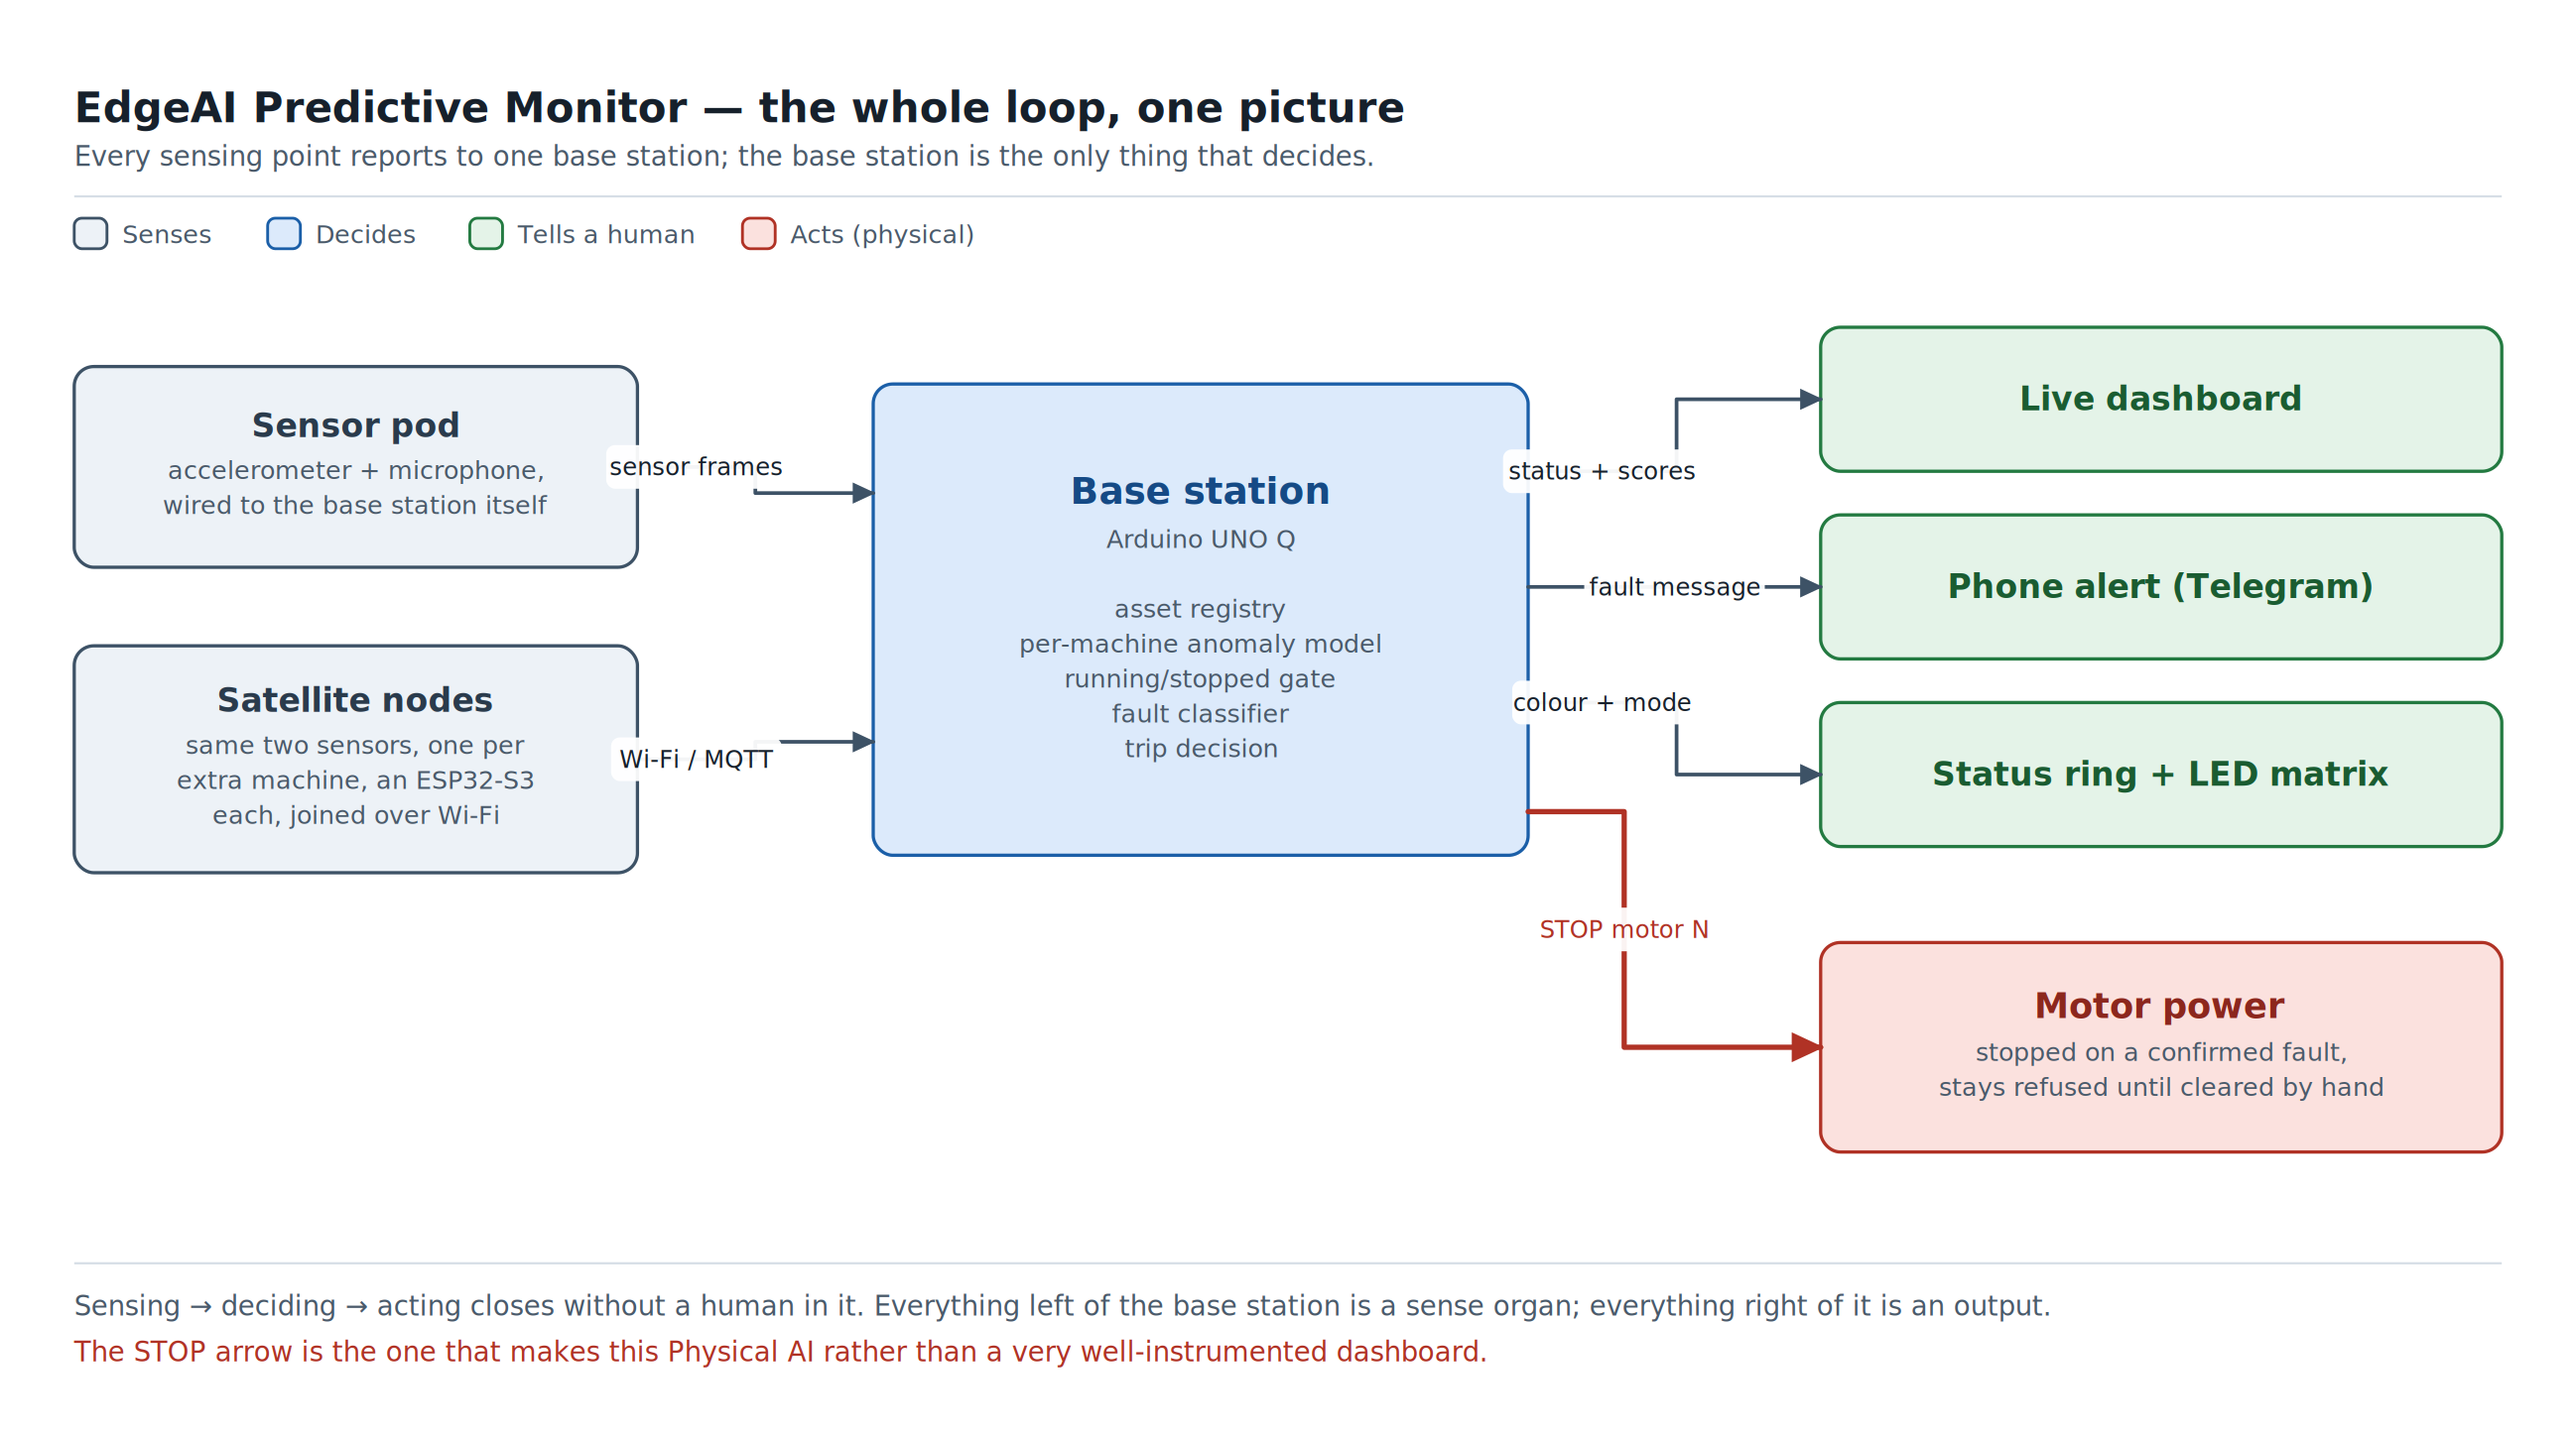
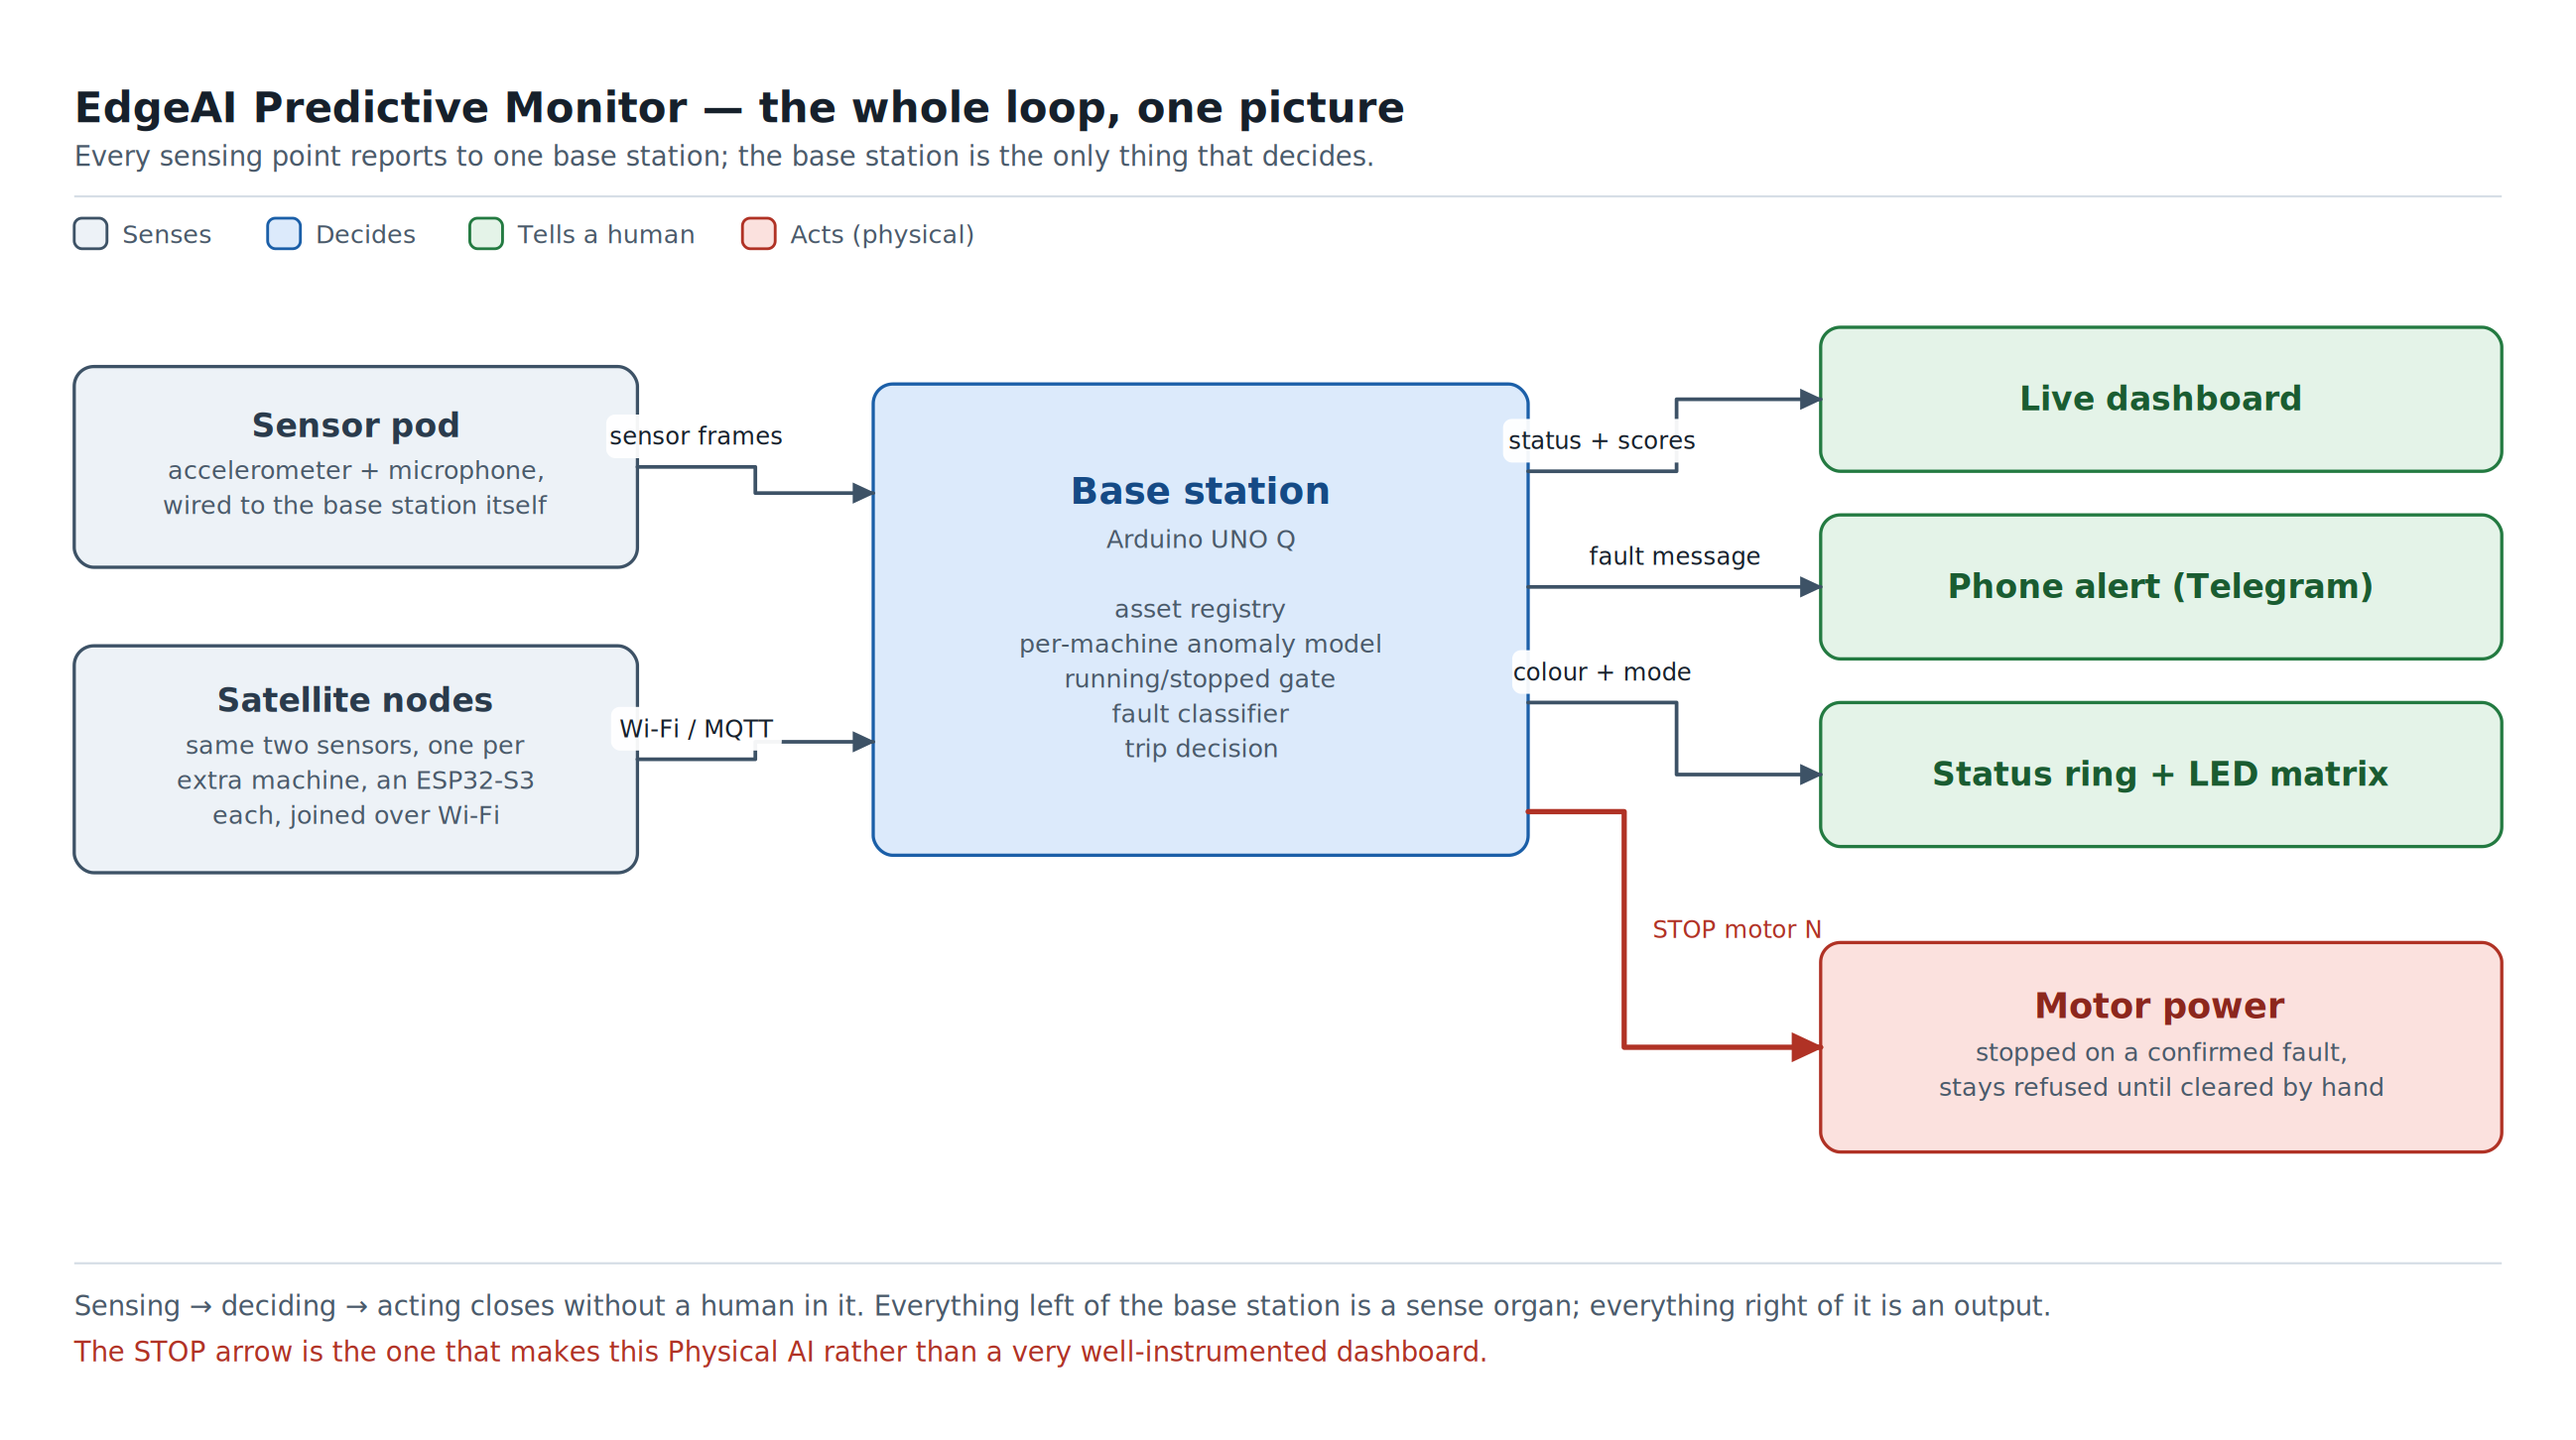
diagrams: hang edge labels beside the line so arrowheads stay visible
An edge label's white backplate was centred on the line. On a short
segment it covered the line and the arrowhead outright -- the KX134 and
satellite SPI links looked like they had no arrow at all -- and on the
long vertical runs in 05 it left the line looking severed.

link() now places the label above a horizontal segment or alongside a
vertical one, with label_side / label_seg to steer it where the default
lands on a box or a group border.

Also drop pin-level detail from the wiring labels: the exact nets are
single-sourced to the KiCad schematics in Appendix B, and the pin lists
were the labels wide enough to swallow their own arrows.

diff --git a/report/diagrams/gen/diagram_lib.py b/report/diagrams/gen/diagram_lib.py
@@ -13,6 +13,12 @@ Design rules this library enforces (rather than leaving to each script):
     top of an arrowhead).
   * Text width is estimated (`text_width`) so legend chips, edge labels and
     label backplates are sized to their content instead of to a guess.
+  * An edge label hangs *beside* its segment, never on top of it (above a
+    horizontal run, alongside a vertical one). A backplate centred on the
+    line hides the line, and on a short segment hides the arrowhead too --
+    which is what made the first-generation wiring diagrams look like they
+    had no arrows at all. `label_side` and `label_seg` pick the side and the
+    segment when the default lands somewhere crowded.
   * Edges route orthogonally by default (`elbow`). Diagonal lines through a
     block diagram read as sketchy and are the other thing that made the
     first generation collide with its own labels.
@@ -221,20 +227,27 @@ class Canvas:
         "arrowSoft": "#8C9AA8", "arrowTell": "#237A41",
     }
 
-    def _edge_label(self, x, y, label, size=11, colour=INK, align="middle"):
+    def _edge_label(self, x, y, label, size=11, colour=INK, anchor="middle"):
+        """Backplated caption. `x` is the anchor point; the plate is placed to
+        match, so callers can hang a label off the side of a line."""
         w = text_width(label, size) + 12
         h = size + 9
-        lx = x - w / 2 if align == "middle" else x
+        if anchor == "middle":
+            lx, tx = x - w / 2, x
+        elif anchor == "start":
+            lx, tx = x, x + 6
+        else:
+            lx, tx = x - w, x - 6
         self.parts.append(
             f'<rect x="{lx:.1f}" y="{y - h / 2:.1f}" width="{w:.1f}" height="{h:.1f}" '
             f'rx="4" fill="{PAPER}" opacity="0.94"/>'
         )
-        self.text(x if align == "middle" else x + 6, y + size * 0.35, label,
-                  size=size, anchor=align if align == "middle" else "start",
+        self.text(tx, y + size * 0.35, label, size=size, anchor=anchor,
                   fill=colour)
 
     def link(self, pts, label=None, kind="arrow", width=1.7, dashed=False,
-             label_at=0.5, label_dx=0, label_dy=0, both=False, label_size=11):
+             label_at=0.5, label_dx=0, label_dy=0, both=False, label_size=11,
+             label_side="auto", label_seg=None):
         """Polyline edge through `pts` (list of (x, y)), arrowhead at the end.
         Points are taken literally, so callers control routing exactly."""
         colour = self.ARROW_COLOURS[kind]
@@ -248,17 +261,30 @@ class Canvas:
             f'{start} marker-end="url(#{kind})"/>'
         )
         if label:
-            # Place the label on the longest segment, at `label_at` along it,
-            # so it never lands on a corner or an arrowhead.
+            # Pick the longest segment, so the label never lands on a corner,
+            # then hang it *beside* that segment rather than on top of it. A
+            # backplate sitting on the line hides the line and, on a short
+            # segment, swallows the arrowhead outright.
             best, best_len = 0, -1
             for i in range(len(pts) - 1):
                 seg = abs(pts[i + 1][0] - pts[i][0]) + abs(pts[i + 1][1] - pts[i][1])
                 if seg > best_len:
                     best, best_len = i, seg
+            if label_seg is not None:
+                best = label_seg
             (x1, y1), (x2, y2) = pts[best], pts[best + 1]
-            lx = x1 + (x2 - x1) * label_at + label_dx
-            ly = y1 + (y2 - y1) * label_at + label_dy
-            self._edge_label(lx, ly, label, size=label_size,
+            lx = x1 + (x2 - x1) * label_at
+            ly = y1 + (y2 - y1) * label_at
+            clear = (label_size + 9) / 2 + 4
+            side = label_side
+            if abs(x2 - x1) >= abs(y2 - y1):
+                anchor = "middle"
+                ly += clear if side == "below" else -clear
+            else:
+                anchor = "end" if side == "left" else "start"
+                lx += -7 if anchor == "end" else 7
+            self._edge_label(lx + label_dx, ly + label_dy, label,
+                             size=label_size, anchor=anchor,
                              colour=colour if kind == "arrowAct" else INK)
 
     def elbow(self, a, b, label=None, kind="arrow", frac=0.5, gap=0, **kw):

diff --git a/report/diagrams/gen/d3_satellite_wiring.py b/report/diagrams/gen/d3_satellite_wiring.py
@@ -10,8 +10,8 @@ c = Canvas(
     title="Satellite node — the sensing half of the base station, on Wi-Fi",
     subtitle="Same two sensors, same status ring, same frame on the wire. Only the transport differs.",
     footnotes=[
-        ("The XIAO ESP32-S3 breaks out 11 GPIOs. Every pin below is chosen to keep the board's fixed "
-         "hardware SPI lines free for the accelerometer.", None),
+        ("The XIAO ESP32-S3 breaks out 11 GPIOs. The pin map keeps the board's fixed hardware SPI "
+         "lines free for the accelerometer; exact pins are in the KiCad schematic in Appendix B.", None),
         ("No per-unit configuration: the node's ID comes from its own Wi-Fi MAC, and its credentials "
          "come from the setup portal, not from a rebuild.", None),
     ],
@@ -28,16 +28,16 @@ c.box(430, 158, 320, 400, "Seeed XIAO ESP32-S3",
        "", "samples, FFTs and pools", "the spectrum locally, then", "publishes one frame"],
       role="sense", title_size=17)
 
-c.link([(302, 222), (430, 222)], label="SPI · D8 / D9 / D10 + CS D3 + INT D2")
-c.link([(302, 372), (366, 372), (366, 330), (430, 330)], label="I²S · D0 / D1 / D4")
-c.link([(302, 508), (366, 508), (366, 432), (430, 432)], label="D5")
+c.link([(302, 222), (430, 222)], label="SPI + data-ready INT")
+c.link([(302, 372), (366, 372), (366, 330), (430, 330)], label="I²S")
+c.link([(302, 508), (366, 508), (366, 432), (430, 432)], label="1-wire")
 
 c.box(846, 208, 300, 122, "Base station",
       ["MQTT broker", "epm-base.local : 1883"], role="brain")
 c.box(846, 392, 300, 118, "On-board NVS",
       ["SSID · password · broker,", "written once at setup"], role="ghost")
 
-c.link([(750, 269), (846, 269)], label="epm/<id>/data + /cmd", both=True)
+c.link([(750, 269), (846, 269)], label="MQTT", both=True)
 c.link([(750, 451), (846, 451)], kind="arrowSoft", both=True)
 
 save(c, "03-satellite-node-wiring")

diff --git a/report/diagrams/gen/d6_asset_lifecycle.py b/report/diagrams/gen/d6_asset_lifecycle.py
@@ -33,8 +33,8 @@ c.box(500, 322, 320, 62, "Healthy", role="tell", title_size=16)
 c.box(500, 404, 320, 62, "Warning", role="warn", title_size=16)
 c.box(500, 486, 320, 62, "Fault", role="act", title_size=16)
 
-c.link([(670, 214), (800, 214), (800, 280)], label="first model saved")
-c.link([(500, 353), (420, 353), (420, 238), (395, 238), (395, 214)], label="Recommission")
+c.link([(670, 214), (800, 214), (800, 280)], label="first model saved", label_seg=1)
+c.link([(500, 353), (420, 353), (420, 238), (395, 238), (395, 214)], label="Recommission", label_side="left", label_dy=-20)
 
 # ---- machine not turning, and the two ways that happens ------------------
 c.box(930, 322, 200, 62, "Idle", role="sense", title_size=16)
@@ -43,12 +43,12 @@ c.box(930, 640, 200, 62, "Offline", role="ghost", title_size=16)
 c.box(500, 640, 320, 62, "Paused", role="ghost", title_size=16)
 
 c.link([(820, 353), (930, 353)], label="a person stopped it",
-       both=True, label_dy=-17, label_size=10.5)
+       both=True, label_dy=-30, label_size=10.5)
 c.link([(820, 517), (930, 517)], label="we stopped it",
-       kind="arrowAct", width=2.2, label_dy=-17, label_size=10.5)
-c.link([(660, 580), (660, 640)], label="Pause / Resume", label_dx=102, both=True)
+       kind="arrowAct", width=2.2, label_dy=-30, label_size=10.5)
+c.link([(660, 580), (660, 640)], label="Pause / Resume", both=True)
 c.link([(850, 580), (884, 580), (884, 671), (930, 671)],
-       label="silent 30 s", kind="arrowSoft", dashed=True, label_dx=76, label_size=10.5)
+       label="silent 30 s", kind="arrowSoft", dashed=True, label_size=10.5)
 
 # ---- reading key (also keeps the left half from going empty) ------------
 c.box(34, 300, 384, 262, "Reading this diagram",

diff --git a/report/diagrams/gen/d2_basestation_wiring.py b/report/diagrams/gen/d2_basestation_wiring.py
@@ -31,15 +31,15 @@ c.box(444, 162, 292, 250, "STM32U585",
 c.box(444, 462, 292, 142, "QRB2210",
       ["Debian Linux, quad-core", "", "models, registry, dashboard"], role="brain", title_size=16)
 
-c.link([(302, 214), (444, 214)], label="SPI1 · D13 / D12 / D11 + CS D8 + INT D9")
-c.link([(302, 372), (373, 372), (373, 318), (444, 318)], label="SAI1 · PB10 / PB9 / PC1")
-c.link([(302, 516), (373, 516), (373, 388), (444, 388)], label="PB0 · TIM3_CH3 + DMA")
+c.link([(302, 214), (444, 214)], label="SPI1 + data-ready INT")
+c.link([(302, 372), (373, 372), (373, 318), (444, 318)], label="SAI1 · I²S")
+c.link([(302, 516), (373, 516), (373, 388), (444, 388)], label="timer + DMA", label_side="left")
 
-c.link([(534, 412), (534, 462)], label="LPUART1 · 500 kbaud", both=True)
+c.link([(534, 412), (534, 462)], label="LPUART1 · 500 k", both=True, label_side="left")
 c.link([(652, 412), (652, 462)], label="SPI · ~40 MHz", both=True)
 
 c.box(864, 182, 282, 84, "8×13 LED matrix", ["already on the UNO Q"], role="tell")
-c.box(864, 300, 282, 84, "USB-UART console", ["USART1 · D0 / D1, debug only"], role="ghost")
+c.box(864, 300, 282, 84, "USB-UART console", ["debug only"], role="ghost")
 c.box(864, 470, 282, 126, "Wi-Fi",
       ["dashboard on :8080", "MQTT broker for satellites", "epm-base.local"], role="brain")
 

diff --git a/report/diagrams/gen/d5_full_architecture.py b/report/diagrams/gen/d5_full_architecture.py
@@ -45,10 +45,14 @@ c.box(880, 470, 406, 130, "Motor-driver rig",
       ["Arduino Uno + CNC Shield V3", "3 × A4988 · 3 × NEMA-17",
        "per-motor stop, latched until cleared"], role="act", title_size=16)
 
-c.link([(744, 400), (812, 400), (812, 206), (880, 206)], label="WebSocket")
-c.link([(744, 430), (830, 430), (830, 300), (880, 300)], label="Bot API")
-c.link([(744, 462), (846, 462), (846, 394), (880, 394)], label="STATUS_LED")
+c.link([(744, 400), (812, 400), (812, 206), (880, 206)], label="WebSocket",
+       label_seg=0, label_dx=8)
+c.link([(744, 430), (830, 430), (830, 300), (880, 300)], label="Bot API",
+       label_seg=0, label_dx=8)
+c.link([(744, 462), (846, 462), (846, 394), (880, 394)], label="STATUS_LED",
+       label_seg=0, label_dx=8)
 c.link([(744, 522), (812, 522), (812, 535), (880, 535)],
-       label="MQTT · STOP motor N", kind="arrowAct", width=2.4)
+       label="STOP motor N", kind="arrowAct", width=2.4, label_seg=0,
+       label_dx=42, label_dy=-13)
 
 save(c, "05-full-architecture")

diff --git a/report/diagrams/README.md b/report/diagrams/README.md
@@ -63,6 +63,11 @@ generation of these diagrams had:
 * **Measured text.** `text_width()` estimates rendered width, so legend chips,
   edge labels and group labels are sized to their content. Under-measuring is
   what let a group's dashed border cut straight through its own title.
+* **Labels beside lines, not on them.** `link()` hangs an edge label above a
+  horizontal segment or alongside a vertical one, so the line and its
+  arrowhead stay visible — a backplate centred on a short segment used to
+  swallow the arrow whole. `label_side` and `label_seg` override the side and
+  the segment when the default lands on something.
 * **Orthogonal routing.** `link()` takes explicit points and `elbow()` jogs on
   one axis. Diagonals through a block diagram read as sketchy, and were the main
   source of label collisions.
